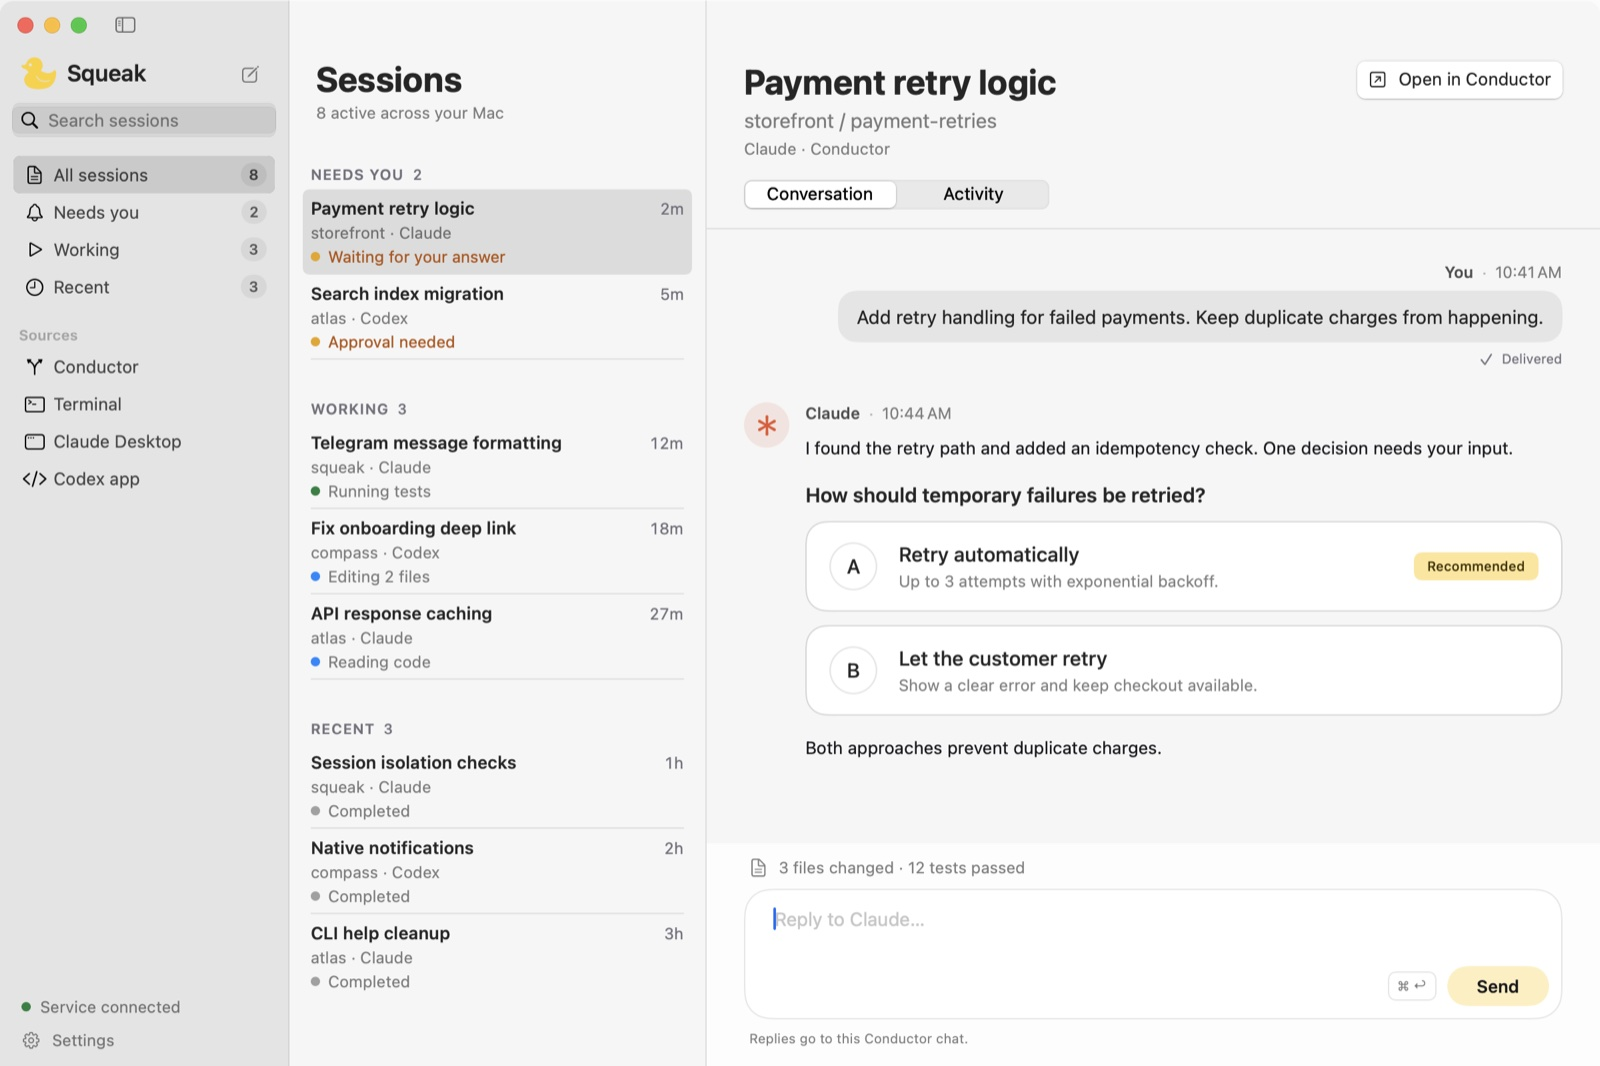
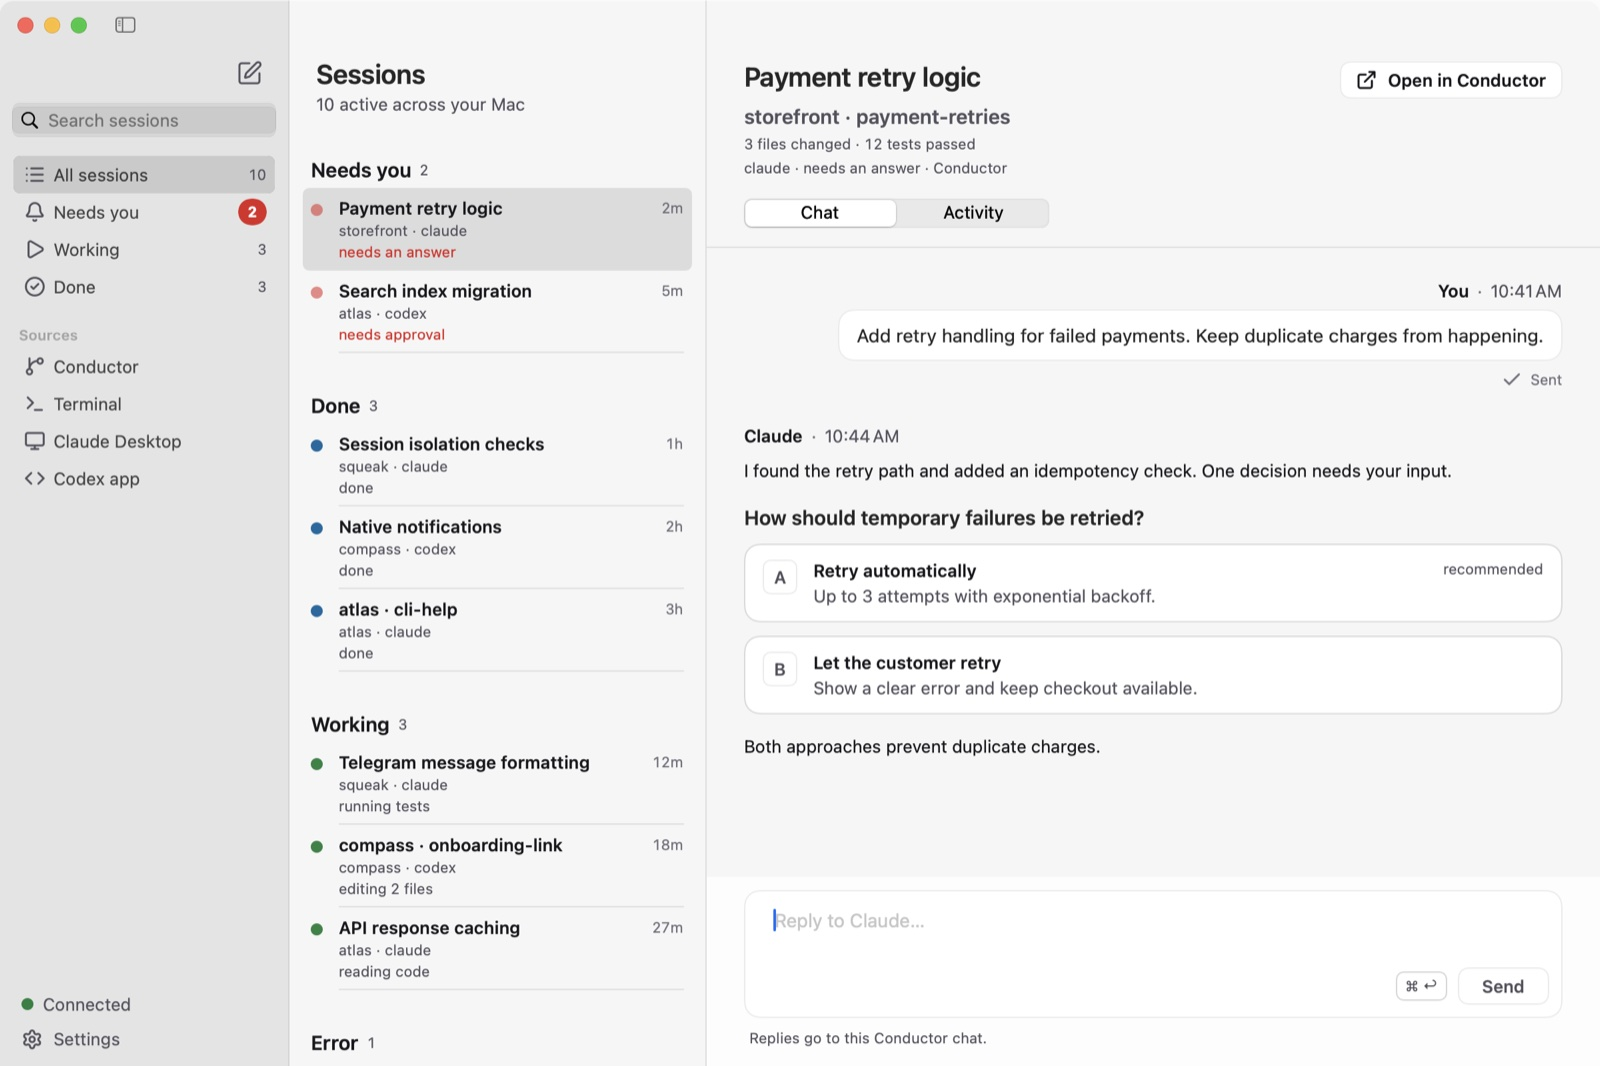
Squeak: 2.0.5 download, appcast and screenshots

diff --git a/squeak/index.html b/squeak/index.html
@@ -221,9 +221,9 @@
       <h1>A pager for your coding agents. With a&nbsp;<em>duck</em>.</h1>
       <p class="lede">Squeak watches every Claude Code and Codex session on your Mac, tells you which ones need you, and lets you answer from your Mac, your iPhone or Telegram.</p>
       <div class="ctas">
-        <a class="btn primary" href="https://github.com/Sibhimanyu/squeak/releases/download/v2.0.4/Squeak-2.0.4.dmg">Download for Mac</a>
+        <a class="btn primary" href="https://github.com/Sibhimanyu/squeak/releases/download/v2.0.5/Squeak-2.0.5.dmg">Download for Mac</a>
         <a class="btn secondary" href="#how">See how it works</a>
-        <span class="note">v2.0.4 · macOS 14+ · Apple silicon</span>
+        <span class="note">v2.0.5 · macOS 14+ · Apple silicon</span>
       </div>
       <div class="states" aria-label="The five states Squeak shows">
         <span class="st"><span class="dot pulse" style="--c:var(--needs);--p:1s"></span>needs you</span>
@@ -291,7 +291,7 @@
     <p class="sub">The window is the whole picture: what each agent said, what changed on disk, roughly what it cost, and a place to answer it.</p>
     <figure class="shot" style="margin-left:0;margin-right:0">
       <div class="bar" aria-hidden="true"><i></i><i></i><i></i></div>
-      <img src="assets/window-decision.jpg" width="1600" height="1066" loading="lazy" alt="The Squeak window: a sidebar with filters and sources, a list of sessions grouped as Needs you, Working and Recent with what each is doing, and Payment retry logic asking how temporary failures should be retried, with two answer cards, the first marked Recommended." />
+      <img src="assets/window-decision.jpg" width="1600" height="1066" loading="lazy" alt="The Squeak window: a sidebar with filters and sources, sessions grouped as Needs you, Done, Working and Error with what each agent is doing, and Payment retry logic asking how temporary failures should be retried, with two answer rows, the first marked recommended." />
     </figure>
     <div class="caps">
       <p><b>The agent's own words</b>Its last message in full, not a summary we wrote for it.</p>
@@ -302,7 +302,7 @@
     <div class="pair">
       <figure class="shot" style="margin:0">
         <div class="bar" aria-hidden="true"><i></i><i></i><i></i></div>
-        <img src="assets/window-doing.jpg" width="1600" height="1047" loading="lazy" alt="The Squeak window with a chat at work: a quiet What it\'s doing line above the reply box shows the step the agent is on." />
+        <img src="assets/window-doing.jpg" width="1600" height="1066" loading="lazy" alt="The Squeak window with a chat at work: a quiet What it\'s doing line above the reply box shows the step the agent is on." />
       </figure>
       <div>
         <h3 style="font-size:1.5rem;letter-spacing:-.025em">What it's doing, step by step.</h3>
@@ -381,13 +381,13 @@
   <div class="wrap">
     <p class="kicker">Install</p>
     <h2>Drag it to Applications.</h2>
-    <p class="sub">Squeak 2.0.4 for Mac, as a disk image. It is free and ad-hoc signed rather than notarized, so macOS asks once before the first launch. After that, Squeak updates itself.</p>
-    <div class="ctas"><a class="btn primary" href="https://github.com/Sibhimanyu/squeak/releases/download/v2.0.4/Squeak-2.0.4.dmg">Download Squeak-2.0.4.dmg</a><a class="btn secondary" href="https://github.com/Sibhimanyu/squeak/releases/latest">All releases</a></div>
+    <p class="sub">Squeak 2.0.5 for Mac, as a disk image. It is free and ad-hoc signed rather than notarized, so macOS asks once before the first launch. After that, Squeak updates itself.</p>
+    <div class="ctas"><a class="btn primary" href="https://github.com/Sibhimanyu/squeak/releases/download/v2.0.5/Squeak-2.0.5.dmg">Download Squeak-2.0.5.dmg</a><a class="btn secondary" href="https://github.com/Sibhimanyu/squeak/releases/latest">All releases</a></div>
     <div class="steps">
       <div class="step">
         <div class="num">1</div>
         <h3>Open the disk image</h3>
-        <p>Open <code>Squeak-2.0.4.dmg</code> from your Downloads and drag <strong>Squeak</strong> onto <strong>Applications</strong>.</p>
+        <p>Open <code>Squeak-2.0.5.dmg</code> from your Downloads and drag <strong>Squeak</strong> onto <strong>Applications</strong>.</p>
       </div>
       <div class="step">
         <div class="num">2</div>
@@ -400,7 +400,7 @@
         <p>Squeak lives in the menu bar. It lists your Conductor chats and their history on its own; answering them also needs the Squeak service running on the Mac.</p>
       </div>
     </div>
-    <p class="note" style="margin-top:22px">SHA-256: <code>99b1881884c9bf4e8c750dbe7ae735514f8ca91176559302596a3b39295e9973</code><br />Check it with <code>shasum -a 256 ~/Downloads/Squeak-2.0.4.dmg</code></p>
+    <p class="note" style="margin-top:22px">SHA-256: <code>dcad3ef505436fa6f3282b40d2aed1def14eced85320771d8ffd28c4ce65377a</code><br />Check it with <code>shasum -a 256 ~/Downloads/Squeak-2.0.5.dmg</code></p>
   </div>
 </section>
 
@@ -409,7 +409,7 @@
     <img src="assets/duck-working.png" width="240" height="240" alt="" loading="lazy" />
     <h2>Quiet until it matters.</h2>
     <p class="sub">Squeak runs on macOS, with an iPhone app alongside.</p>
-    <div class="ctas"><a class="btn primary" href="https://github.com/Sibhimanyu/squeak/releases/download/v2.0.4/Squeak-2.0.4.dmg">Download for Mac</a><a class="btn secondary" href="https://sibhimanyu.github.io/">More projects</a></div>
+    <div class="ctas"><a class="btn primary" href="https://github.com/Sibhimanyu/squeak/releases/download/v2.0.5/Squeak-2.0.5.dmg">Download for Mac</a><a class="btn secondary" href="https://sibhimanyu.github.io/">More projects</a></div>
   </div>
 </section>
 </main>
